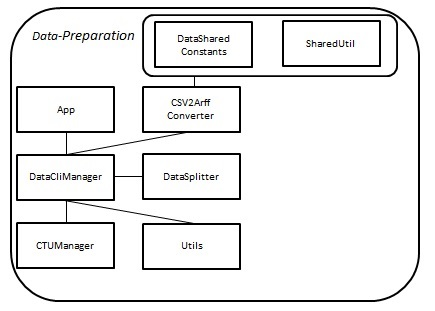
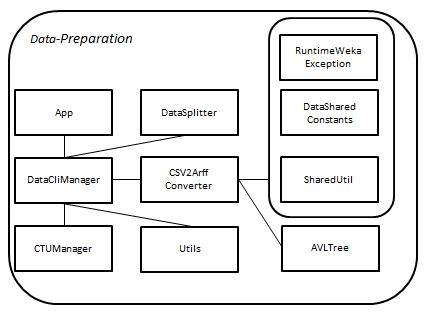
Corrected Doku

diff --git a/doc/src/04ctu13.tex b/doc/src/04ctu13.tex
@@ -5,22 +5,31 @@
 \subsection{Herkunft}
 Der CTU-13 ist ein Datensatz aus Botnet Traffic, welcher von der Czech Technical University in Prag, im Jahr 2011 aufgezeichnet wurde. 
 \subsection{Struktur}
-Das Ziel der Aufzeichnung war es einem großen Datensatz von realem Botnet Traffic vermischt mit normalem und background Traffic zu erstellen. Insgesamt besteht der Datensatz aus 13 Aufzeichnungen (Weiterführend als Szenarios bezeichnet). In jedem Szenario wurden spezifische Malware ausgeführt. Diese Malware nutzten unterschiedliche Protokolle und führten verschiedene Aktionen aus.  \\
-In der Folgenden Tabelle ist genauer beschrieben, in welchen Szenarien IRC, P2P oder HTTP Protokolle benutzt wurden, sowie ob SPAM gesendet wurde, Click-Fraud oder DDos Angriffe betrieben wurden, Ports gescannt wurden oder Fast-Flux Techniken angewandt wurden oder custom compiliert wurde.\\
-\begin{center}
-\includegraphics[scale=1]{images/CTU_Tabelle_1.jpg} 
-\label{Tabelle: Charakteristika der Szenarien}
-\end{center}
+Das Ziel der Aufzeichnung war es, einen großen Datensatz von realem Botnet Traffic vermischt mit Normal und Background Traffic zu erstellen. Insgesamt besteht der Datensatz aus 13 Aufzeichnungen (weiterführend als Szenarios bezeichnet). In jedem Szenario wurden verschiedene, spezifische Arten von Malware ausgeführt. Dabei wurden unterschiedliche Protokolle genutzt und verschiedene Aktionen ausgeführt. \ \\
+
+In der folgenden Tabelle ist festgehalten, in welchen Szenarien welche Malware aufgetreten ist. Dabei kann es sich um die Nutzung von IRC, P2P und HTTP Protokollen sowie das Versenden von SPAM oder das Betreiben von Click-Fraud oder DDos-Angriffen handeln. Außerdem können Ports gescannt, Fast-Flux Techniken angewandt oder Custom Compiling betrieben worden sein. \\
+\begin{figure}[ht]
+ \centering
+ \includegraphics[width=1\textwidth]{images/CTU_Tabelle_1.jpg}
+ \caption{Charakteristika der Szenarien}
+ \label{Tabelle Charakteristika der Szenarien}
+\end{figure}
+
  % Quelle http://mcfp.weebly.com/the-ctu-13-dataset-a-labeled-dataset-with-botnet-normal-and-background-traffic.html
-\\
-In der folgenden Tabelle können Sie die Aufzeichnungsdauer der einzelnen Szenarien, die Anzahl der Packete, Anzahl an Netflows und die Größe der pcap Datei einsehen. Zusätzlich enthält die Tabelle die in den Szenarios benutzte Malware und die Anzahl an infizierten Rechnern.  
-% Bild Tabelle einfügen
-\begin{center}
-\includegraphics[scale=1]{images/CTU_Tabelle_2.jpg} 
-\label{Tabelle: Größe der Daten für jedes Szenario}
+
+
+In der folgenden Tabelle die Aufzeichnungsdauer der einzelnen Szenarien, die Anzahl der Packete, die Anzahl an Netflow und die Größe der pcap-Datei eingesehen werden. Zusätzlich enthält die Tabelle die in den Szenarios benutzte Malware und die Anzahl an infizierten Rechnern.
+
 % Quelle http://mcfp.weebly.com/the-ctu-13-dataset-a-labeled-dataset-with-botnet-normal-and-background-traffic.html
-\end{center}
-Die finale NetFlow Datei besteht aus folgenden Feldern:
+
+\begin{figure}[ht]
+ \centering
+ \includegraphics[width=1\textwidth]{images/CTU_Tabelle_2.jpg}
+ \caption{Daten für jedes Szenario}
+ \label{Daten für jedes Szenario}
+\end{figure}
+
+Die finale NetFlow-Datei besteht aus den folgenden Feldern:
 \begin{center}
 \begin{enumerate}
 \item Start Time
@@ -37,39 +46,35 @@ Die finale NetFlow Datei besteht aus folgenden Feldern:
 \item Total Bytes
 \end{enumerate}
 \end{center}
-Insgesamt umfasst der CTU-13 Datensatz bis zu 662.9 GB an pcap Dateien.  \\
+Insgesamt umfasst der CTU-13 Datensatz bis zu 662.9 GB an pcap-Dateien.  \\
 \subsection{Besonderheiten}
-Der CTU13-Datensatz enthält im Vergleich zu anderen Datensätzen einige Besonderheiten. Diese Besonerheiten werden im Verlauf dieses Kapitels genauer erläutert.
+Der CTU13-Datensatz enthält im Vergleich zu anderen Datensätzen einige Besonderheiten. Diese Besonderheiten werden im Verlauf dieses Kapitels genauer erläutert.
 \subsubsection{Label}
 % Besonderheit der Labels: Botnet, background, normal
 Während der Erstellung des Datensatzes wurden 3 verschiedene Labels vergeben: Background, Botnet und Normal. Diese wurden nach folgender Priorität vergeben: 
 \begin{center}
 \begin{enumerate}
-\item Dem gesamten Traffic das Background Label zuordnen
-\item Das Normal Label Traffic zuordnen, welcher bestimmten Filtern entspricht
-\item Jedem Traffic das Label Botnet zuordnen, welcher von oder zu einer bekannten infizierten IP Adresse kommt
+\item Dem gesamten Traffic das Background Label zuordnen,
+\item Das Normal Label dem Traffic zuordnen, der bestimmten Filtern entspricht,
+\item Jedem Traffic das Label Botnet zuordnen, der von oder zu einer bekannten infizierten IP Adresse kommt.
 \end{enumerate}
 \end{center}
-Die genutzten Filter wurden von bekannten und kontrollierten Computer im Netzwerk, wie Routern, Proxies, Switches und eigenen Laborrechnern erstellt.
+Die genutzten Filter wurden von bekannten und kontrollierten Computern im Netzwerk, wie Routern, Proxies, Switches und eigenen Laborrechnern erstellt.
 \subsubsection{Bidirectional Netflow}
-In dem im Projekt benutztem CTU-13 Datensatz enthält bidirectional NetFlows. Diese bidirectional NetFlows haben gegenüber directional NetFlows folgende Vorteile: 
+ Der in dem Projekt genutzte CTU-13 Datensatz enthält bidirectional NetFlows. Diese bidirectional NetFlows haben gegenüber directional NetFlows folgende Vorteile: 
 \begin{center}
 \begin{enumerate}
-\item Das Problem der Differentierung zwischen Client und Server wird damit gelöst.
-\item Sie enthalten mehr Informationen
+\item Das Problem der Differenzierung zwischen Client und Server wird damit gelöst.
+\item Sie enthalten mehr Informationen.
 \item Sie enthalten detailliertere Labels.
 \end{enumerate}
 \end{center}
 \subsubsection{Manuell gelabelt}
 Die Szenarios des CTU-13 Datensatzes wurden manuell analysiert und gelabelt. Der Prozess der Labelverteilung erfolgte innerhalb der NetFlow Dateien.
 \subsubsection{NetFlow}
-Zur weiteren Verwendung und Analyse des CTU-13 Datensatzes stehen die kompletten pcap Dateien aus Datenschutzgründen nicht zur Verfügung.
-\subsection{Entscheidung}
+Zur weiteren Verwendung und Analyse des CTU-13 Datensatzes stehen die kompletten pcap-Dateien aus Datenschutzgründen nicht zur Verfügung.
+%\subsection{Entscheidung}
 
 \end{document}
 
-%Woher kommt dieser Datensatz/ Wie ist er entstanden?
-%Welche Struktur weist er auf?
-%Welche Besonderheiten gibt es? (z.B. Backgroundtraffic)
-%Warum haben wir gerade diesen Datensatz gewählt?
 

diff --git a/doc/src/07conclusion.tex b/doc/src/07conclusion.tex
@@ -2,13 +2,14 @@
 \author{Philipp Nickel}
 \begin{document}
 \section{Fazit und Ausblick}
-%Hier kommt der Schluss!
-Wie bereits im vorherigen Kapitel präsentiert, tendieren die Ergebnisse sich mit zunehmendem k zu verbessern. Jedoch sind auch die damit erzielten Ergebnisse nicht optimal, da auch eine True Positive Rate von 99,99\% nicht ausreichend, da  bei entsprechend vielen Alarm die Anzahl an Fehlalarmen oder nicht erkannten Angriffen immer noch zu hoch ist. Es bleibt zu beobachten, wie sich die Genauigkeit und True Positive Rate mit immer weiter zunehmendem k verändern.  
+
+
+
+Die Ergebnisse tendieren dazu, sich mit zunehmendem k zu verbessern, wie bereits im Kapitel 6 präsentiert wurde.
+Jedoch sind auch die damit erzielten Ergebnisse nicht optimal, da auch eine True Positive Rate von 99,99\% nicht ausreichend ist. Schließlich ist  bei entsprechend vielen Alarmen die Anzahl an Fehlalarmen oder nicht erkannten Angriffen immer noch zu hoch. Es bleibt zu beobachten, wie sich die Genauigkeit und True Positive Rate mit immer weiter zunehmendem k verändern.  
 \\
-Im Laufe des Projektes mussten wir feststellen, dass sich der CTU-13 Datensatz nur bedingt für Intrusion Detection eignet. Zwar erfüllt der Datensatz alle Voraussetzungen, die für Intrusion Detection nötig sind, jedoch traten auch einige Probleme auf. Unter anderem konnten nicht alle Szenarien im IDS genutzt werden, allein die Größe einiger Szenarien zu \textit{OutOfMemory} Fehlern führte. So wurde in diesem Projekt komplett auf das Szenario 10 des CTU-13 Datensatzes verzichtet. Grund dafür war die Größe von 70 GB, wo eine Verarbeitung und Analyse die vorhandenen Ressourcen und Kapazitäten überschritten hätte.
+Im Laufe des Projektes mussten wir feststellen, dass sich der CTU-13 Datensatz nur bedingt für Intrusion Detection eignet. Zwar erfüllt der Datensatz alle Voraussetzungen, die für Intrusion Detection nötig sind, jedoch traten auch einige Probleme auf. Unter anderem konnten nicht alle Szenarien im IDS genutzt werden. Allein die Größe einiger Szenarien führte zu \textit{OutOfMemory} Fehlern. So wurde in diesem Projekt komplett auf das Szenario 10 des CTU-13 Datensatzes verzichtet. Grund dafür war die Größe von 70 GB, bei der eine Verarbeitung und Analyse die vorhandenen Ressourcen und Kapazitäten überschritten hätte.
 \\
-Demzufolge bleibt die Aufgabe für zukünftige Projekte mit diesem Datensatz, die Probleme zu lösen und somit eine komplette Analyse des gesamten Datensatzes durchzuführen    
+Demzufolge bleibt die Aufgabe für zukünftige Projekte mit diesem Datensatz, die genannten Probleme zu lösen und somit eine komplette Analyse des gesamten Datensatzes durchzuführen.
 \end{document}
 
-% Kurz zusammenfassen, welche Schlussfolgerungen wir aus den Evaluationen ziehen konnten!
-% Was bliebe für die Zukunft zu tun?

diff --git a/doc/src/05ids.tex b/doc/src/05ids.tex
@@ -14,6 +14,27 @@ In der Data-Preparation ist es dem Nutzer möglich,aus einer beliebigen Anzahl a
  \caption{Schema Data-Preparation}
  \label{schema_data_preparation}
 \end{figure}
+\ \\ 
+\subsection {Vorgehen}
+Um unseren Datensatz analysieren zu können, müssen wir die Szenarien die in csv-Format sind, in Arff umwandeln.
+Dazu benutzen wir die Machine Learning Library von WEKA.
+Wir nehmen ein oder mehrere Szenarien (wenn es mehrere sind konkatenieren wir sie einfach), konvertieren sie, und am Ende teilen wir sie in Test und Training.\\
+
+Beim Konvertieren der größeren Szenarien haben wir ein OutOfMemory Error, Java Heap Space, bekommen. Wir haben versucht die Heap Size manuell zu vergrößern und explizit den Garbage Collector aufzurufen, aber es hat nicht geholfen.\\
+
+Das letzte Attribut der csv-Datei ist das Label, z.B. flow=Background-Established-cmpgw-CVUT. 
+Da das Label sehr lang ist und es nicht relevant ist, ob ein Angriff erfolgreich (Established) oder nur ein Versuch (Attempt) war, wurde das Label auf einen Buchstaben reduziert: 'B' für Background, 'N' für Normal und 'A' für Anomalie.\\
+
+Anschließen wurde versucht, den Arff-Header bestmöglich zu verkleinern,  um so wenig Speicher wie möglich zu benötigen.
+Da es beispielsweise sehr viele verschiedene Nominalwerte gab, wurden die Attribute SrcPort, DestPort, SrcIP und DestIP in numeric umgewandelt. \\
+
+\begin{center}
+\begin{enumerate}
+\item Manche Werte der Ports waren Hexadezimal abgebildet. Dementsprechend mussten sie in mithilfe einer Funktion in der Util-Klasse in Dezimalwerte konvertiert werden.
+\item Jeder eindeutigen IP-Adresse wurde mithilfe eines AVL-Baums eine ID zugewiesen. Der AVL-Baum wurde anstelle einer LinkedList, um die Laufzeit von $O(n)$ zu $O(\log{n})$ beim Suchen eines Knotens in einer respektiven Datenstruktur zu reduzieren.
+\end{enumerate}
+\end{center}
+Die unternommen Schritte haben das Problem nicht vollständig lösen können. Schließlich konnten bis auf die vier größten Szenarien alle Szenarien individuell konvertiert werden.
 
 
 Im Intrusion Detection System kann der Nutzer zwischen mehreren Classifiern auswählen. Hat der Nutzer einen Classifier ausgewählt und die Parameter gesetzt, trainiert das IDS auf dem in der Data-Preparation vorbereiteten Trainings-Datensatz und testet anschließend auf dem Test-Datensatz. Es ist auch möglich nur ein Training oder nur einen Test durchzuführen. Nachdem das IDS getestet hat, evaluiert es die Testergebnisse. Die Resultate der Evaluierung, die Berechnung der Metriken True Positive, True Negative, False Positive und False Negative werden sowohl in Text- als auch in grafischer Form hinterlegt, um den Nutzer einen Überblick zu verschaffen. 

diff --git a/doc/src/06evaluation.tex b/doc/src/06evaluation.tex
@@ -1,11 +1,11 @@
 \documentclass[main.tex]{subfiles}
 \begin{document}
 \section{Evaluierung des IDS}
-\subsection{Evaluierung des IDS mit dem Datensatz CTU13}
+\subsection{Evaluierung des IDS mit dem Datensatz CTU-13}
 
 \subsubsection{Werte und Metriken}
 Wenn das IDS Training und Test beendet hat, werden die Werte True Negative (TN), True Positive (TP), False Positive (FP) und False Negative (FN) erfasst. Bei True Negative handelt es sich um die als Normal erkannten Ereignisse, die auch tatsächlich Normal sind. True Positive sind die korrekt erkannten Botnets. False Positive bezeichnen Fehlalarme, das heißt, dass normale Ereignisse als Botnets erkannt wurden. False Negative dagegen sind Botnets, die nicht erkannt wurden. 
-Um zu evaluieren, wie gut das IDS auf dem CTU13-Datensatz funktioniert, wurden die folgenden Metriken ausgewählt, die aus den eben genannten Werten errechnet werden:
+Um zu evaluieren, wie gut das IDS auf dem CTU-13Datensatz funktioniert, wurden die folgenden Metriken ausgewählt, die aus den eben genannten Werten errechnet werden:
 
 \begin{itemize}
 \item Accuracy

diff --git a/data-preparation/src/test/java/de/tub/insin/ss17/grp1/AppTest.java b/data-preparation/src/test/java/de/tub/insin/ss17/grp1/AppTest.java
@@ -29,7 +29,7 @@ public class AppTest {
     static {
         destFolder = "../IDS/src/main/resources/test/";
         ctuFolder = "src/main/resources/TestCTU13/";
-        scenarios  = "6,11,12";
+        scenarios  = "6";
     }
 
     @Before
